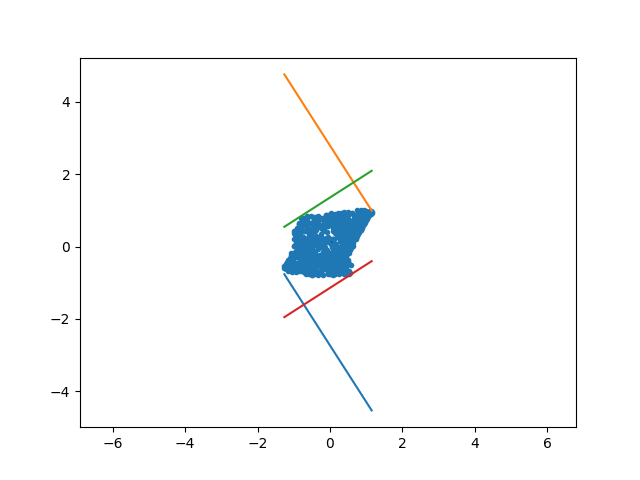
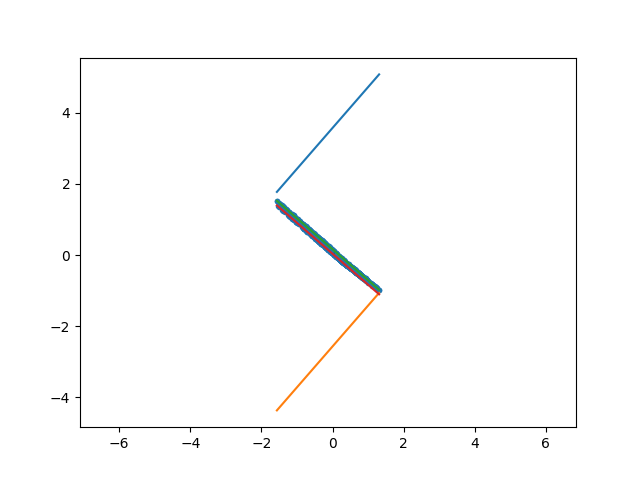
minor change

diff --git a/run.py b/run.py
@@ -11,7 +11,7 @@ torch.set_printoptions(precision=8)
 
 def main():
 
-    eps = .03
+    eps = .0001
     verbose = 0
     virtualBranching = False
     numberOfVirtualBranches = 4,
@@ -20,7 +20,7 @@ def main():
     useTwoNormDilation = False
     useSdpForLipschitzCalculation = True
     lipschitzSdpSolverVerbose = False
-    finalHorizon = 2
+    finalHorizon = 1
     initialGD = False
     performMultiStepSingleHorizon = False
 
@@ -35,9 +35,9 @@ def main():
     print(' ')
 
     # fileName = "randomNetwork.pth"
-    fileName = "randomNetwork2.pth"
+    # fileName = "randomNetwork2.pth"
     # fileName = "randomNetwork3.pth"
-    # fileName = "trainedNetwork1.pth"
+    fileName = "trainedNetwork1.pth"
     # fileName = "doubleIntegrator.pth"
     # fileName = "RobotArmStateDict2-5-2.pth"
     # fileName = "Test3-5-3.pth"
@@ -177,7 +177,7 @@ def main():
 
         plt.axis("equal")
         plt.savefig("reachabilityPics/" + fileName + "Iteration" + str(iteration) + ".png")
-        plt.show()
+        # plt.show()
 
 
             
